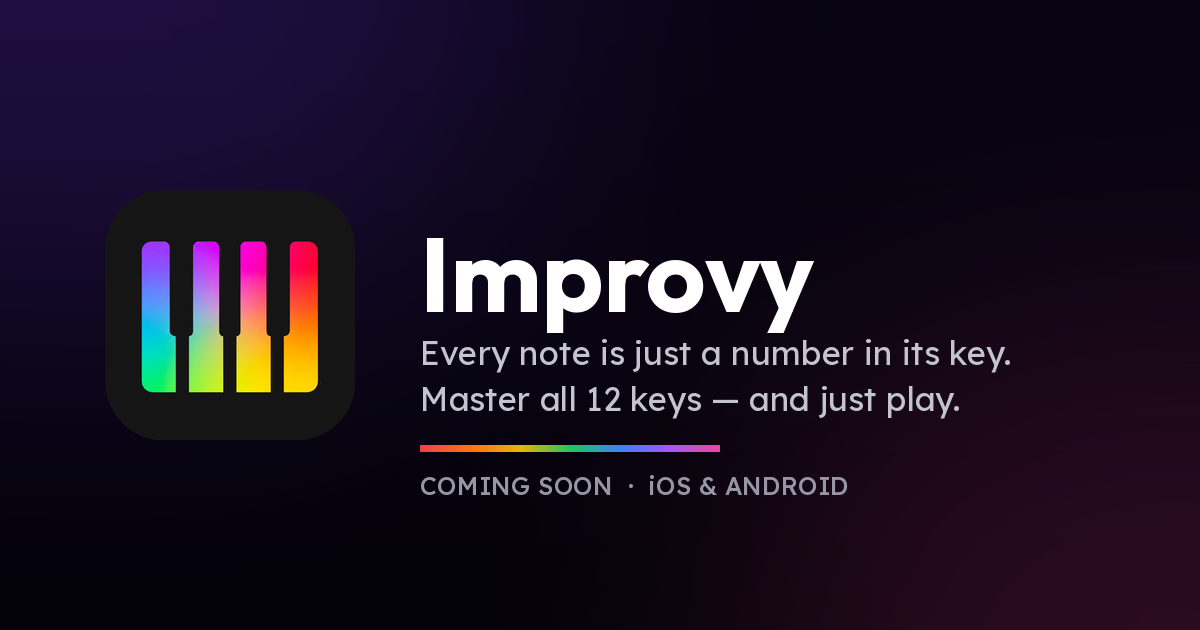
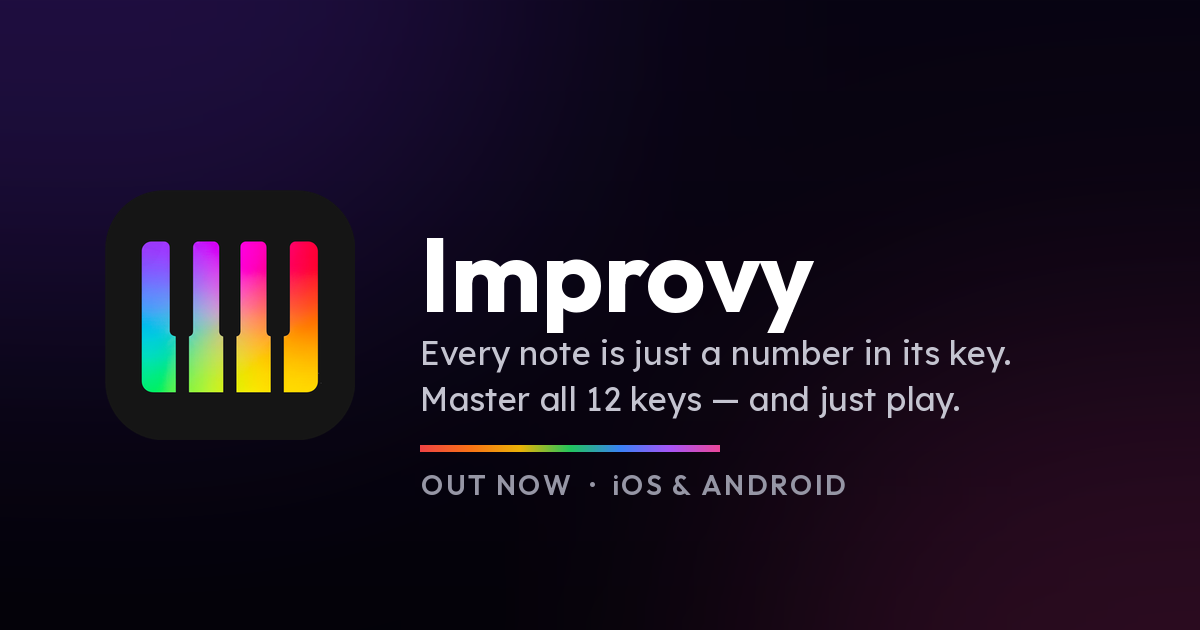
The link preview no longer says the app is coming soon
og-image.png is what WhatsApp, iMessage and Slack render when the site is
shared, and its bottom line read COMING SOON - iOS & ANDROID. Sharing the
link was advertising a product that is out.

There is no source file to regenerate the artwork from, so the line is
edited in place and everything else is untouched. Erasing it means
rebuilding the backdrop, which is done vertically: for each column the
strip is interpolated between one clean row above and one below. Over
30px that lands within a single level out of 255. Horizontally it would
have been off by seven and left a band across the image - the glows run
left to right and are nowhere near linear over 600px.

Kept as a script rather than a one-off, since the line will need changing
again and the next person should not have to re-measure the artwork. The
font travels with it so the script has no setup.

Claude-Session: https://claude.ai/code/session_01WxjDdAHP8mv3wAafRFViM9

Changed region(s): [[0.3392, 0.754, 0.7092, 0.7841]]

diff --git a/tools/og_status_line.py b/tools/og_status_line.py
@@ -1,0 +1,81 @@
+#!/usr/bin/env python3
+"""Rewrites the status line at the bottom of the link-preview image.
+
+`public/og-image.png` is what WhatsApp, iMessage, Slack and every other
+unfurler shows when the site is shared. Its bottom line said COMING SOON long
+after the app shipped, and there is no source file to regenerate the image
+from — so this edits the line in place and leaves the rest of the artwork
+untouched.
+
+    python3 tools/og_status_line.py "OUT NOW  |  iOS & ANDROID"
+
+The old line is erased by rebuilding the background *vertically*: for each
+column, the pixels across the strip are interpolated between one clean row
+above it and one clean row below. The backdrop is a pair of wide, soft glows,
+so over a 30px span that is accurate to a single level out of 255 — invisible.
+(Interpolating horizontally instead is off by 7 and leaves a visible band: the
+gradient runs left-to-right and is nowhere near linear across 600px.)
+"""
+import sys
+from pathlib import Path
+
+from PIL import Image, ImageDraw, ImageFont
+
+ROOT = Path(__file__).resolve().parent
+IMAGE = ROOT.parent / "public" / "og-image.png"
+FONT = ROOT / "Outfit-SemiBold.ttf"
+
+# Measured off the artwork, not guessed.
+STRIP_TOP, STRIP_BOTTOM = 471, 501  # rows the old line occupies
+CLEAN_ABOVE, CLEAN_BELOW = 470, 502  # the rows either side, still background
+LEFT, RIGHT = 415, 1010  # columns to rebuild
+TEXT_LEFT, CAP_TOP = 421, 475  # where the line starts, and its cap height
+CAP_HEIGHT = 20
+COLOR = (150, 150, 165)
+TRACKING = 2.4  # px between glyphs, matching the original's wide setting
+
+
+def erase(im: Image.Image) -> None:
+    px = im.load()
+    span = CLEAN_BELOW - CLEAN_ABOVE
+    for x in range(LEFT, RIGHT + 1):
+        top, bottom = px[x, CLEAN_ABOVE], px[x, CLEAN_BELOW]
+        for y in range(STRIP_TOP, STRIP_BOTTOM + 1):
+            t = (y - CLEAN_ABOVE) / span
+            px[x, y] = tuple(round(top[i] + (bottom[i] - top[i]) * t) for i in range(3))
+
+
+def fitted_font() -> ImageFont.FreeTypeFont:
+    """The size whose capitals are exactly as tall as the ones being replaced."""
+    for size in range(16, 48):
+        f = ImageFont.truetype(str(FONT), size)
+        box = f.getbbox("H")
+        if box[3] - box[1] >= CAP_HEIGHT:
+            return f
+    raise SystemExit("no size matched the cap height")
+
+
+def draw(im: Image.Image, text: str) -> None:
+    font = fitted_font()
+    d = ImageDraw.Draw(im)
+    # Letter-spacing means drawing glyph by glyph; anchor each on the cap line
+    # so the row sits exactly where the old one did.
+    x = float(TEXT_LEFT)
+    top_of_H = font.getbbox("H")[1]
+    for ch in text:
+        d.text((x, CAP_TOP - top_of_H), ch, font=font, fill=COLOR)
+        x += d.textlength(ch, font=font) + TRACKING
+    print(f"line ends at x={round(x - TRACKING)} (image is {im.width} wide)")
+
+
+def main() -> None:
+    text = sys.argv[1] if len(sys.argv) > 1 else "OUT NOW  |  iOS & ANDROID"
+    im = Image.open(IMAGE).convert("RGB")
+    erase(im)
+    draw(im, text)
+    im.save(IMAGE)
+    print(f"wrote {IMAGE.relative_to(ROOT.parent)}: {text!r}")
+
+
+if __name__ == "__main__":
+    main()
